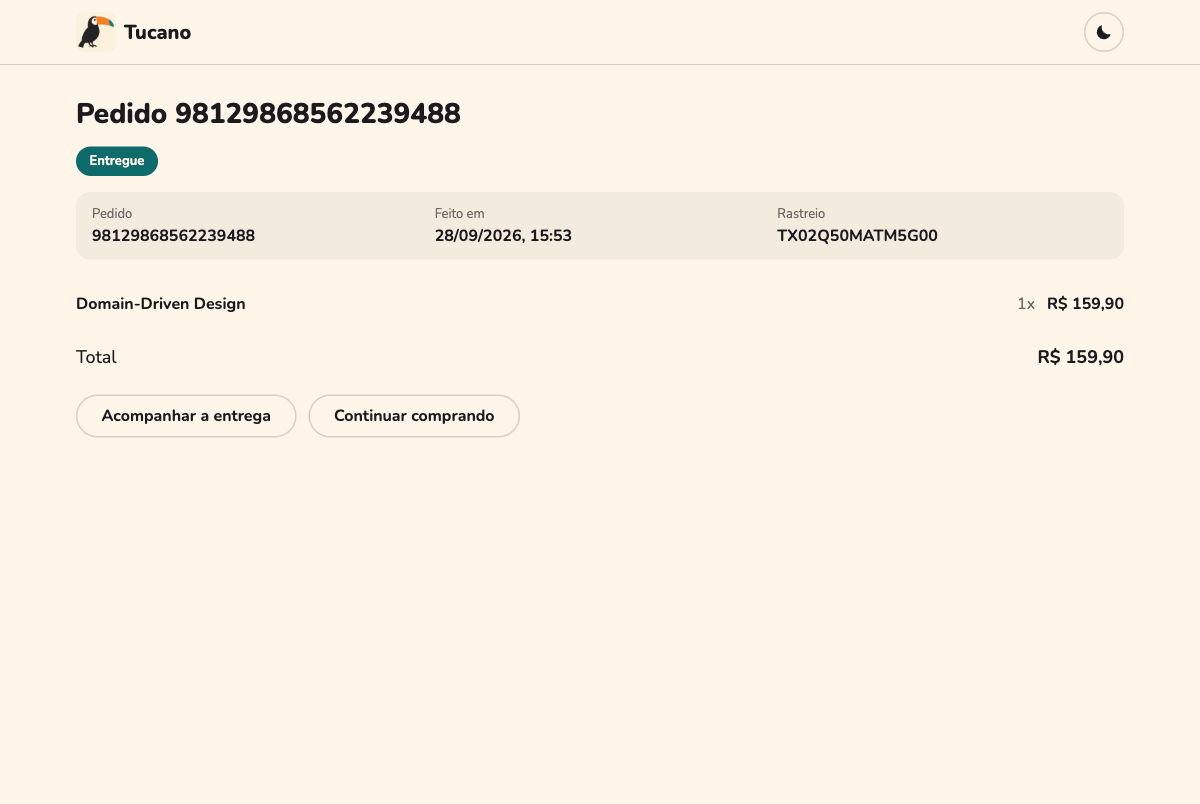
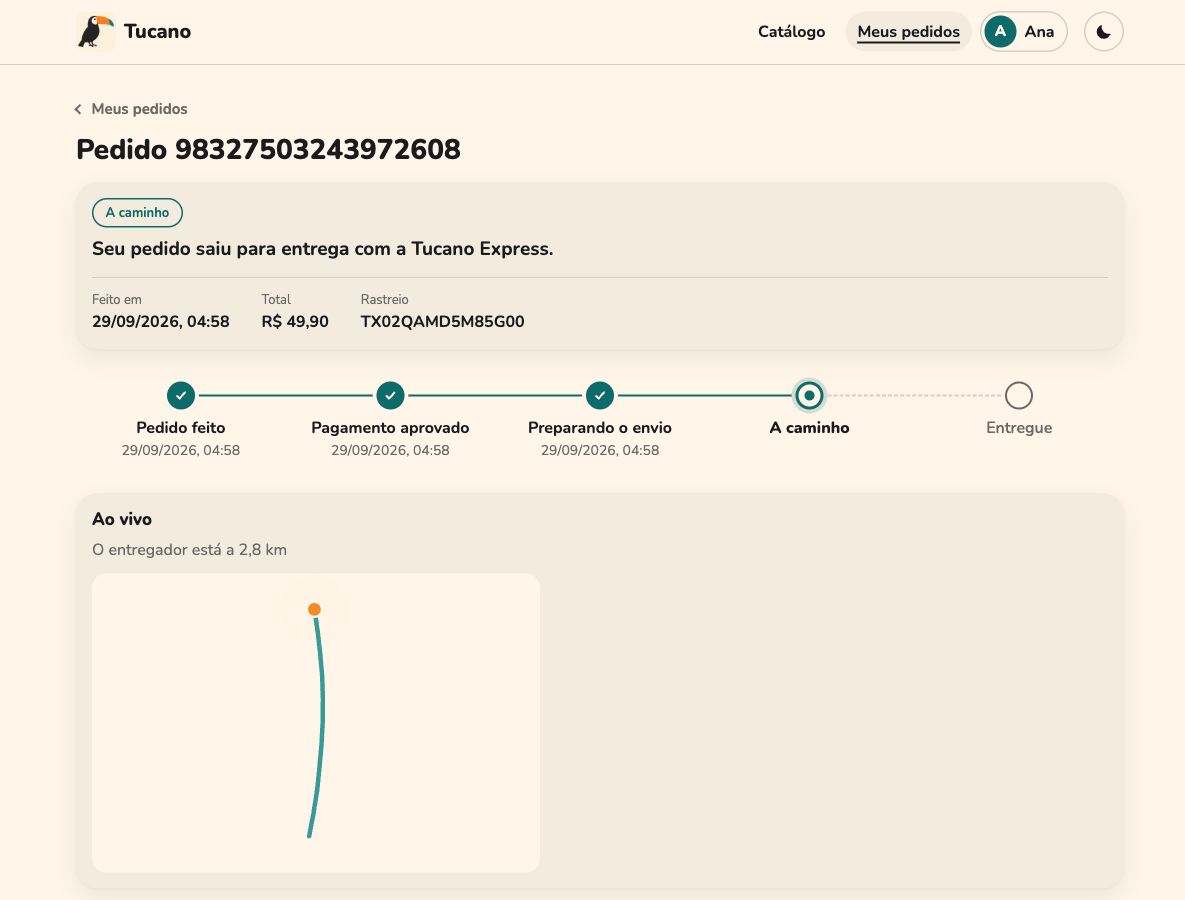
docs: profiles and my orders in the guide, the architecture and the readme

diff --git a/docs/architecture/failure-modes.md b/docs/architecture/failure-modes.md
@@ -34,9 +34,10 @@ Os números vêm da stack local, em 28/09/2026. Eles mudam de máquina para máq
 
 | Modo de falha | Efeito para o cliente | Detecção | Reação | Prova | O que sobra |
 |---|---|---|---|---|---|
-| Kafka fora | a remessa demora a nascer; a tela do pedido espera | o relay não consegue publicar | o evento espera na outbox, gravado na mesma transação do fato, e sai quando o Kafka volta; os consumidores retomam do último offset confirmado, e a inbox descarta o que a volta entregar duas vezes | experimento `kafka-out-and-back`: depois de 30 s fora, a remessa nasceu 8,6 s depois da volta do Kafka e a encomenda chegou a entregue em 18,8 s; [ADR 0008](../adr/0008-transactional-outbox.md) | até uns 10 s de espera depois da volta, que é o teto do backoff de reconexão do cliente do Kafka |
+| Kafka fora | a remessa demora a nascer; a tela do pedido espera; a lista "Meus pedidos" continua abrindo, mas para no tempo | o relay não consegue publicar | o evento espera na outbox, gravado na mesma transação do fato, e sai quando o Kafka volta; os consumidores retomam do último offset confirmado, e a inbox descarta o que a volta entregar duas vezes; o projetor da lista alcança sozinho | experimento `kafka-out-and-back`: depois de 30 s fora, a remessa nasceu 8,6 s depois da volta do Kafka e a encomenda chegou a entregue em 18,8 s; [ADR 0008](../adr/0008-transactional-outbox.md) | até uns 10 s de espera depois da volta, que é o teto do backoff de reconexão do cliente do Kafka |
 | evento entregue duas vezes | efeito em dobro | o id do evento, na inbox | a inbox descarta a repetição na mesma transação do efeito; `UNIQUE (order_id)` nas remessas | teste (pacote de mensageria e `SchemaConstraintsTest`) | nada |
 | mensagem ilegível, ou recusada pelo domínio | a partição travaria atrás dela | `PermanentFailure` | vai para `dlq.<consumer-group>` na hora, com o erro nos headers | teste (pacote de mensageria) | alguém precisa olhar a DLQ |
+| o projetor da lista parado (a flag `chaos.commerce.order-projector-paused`) | a tela do pedido mostra o pedido novo na hora, e "Meus pedidos" ainda não | o lag do grupo `commerce.order-projector` | nenhuma de propósito: é o laboratório de consistência do [ADR 0012](../adr/0012-acid-writes-base-reads.md); o projetor sai do grupo com tudo confirmado e volta dos offsets quando a flag desliga | medição: com a flag ligada, um pedido novo seguia fora da lista depois de 8 s; desligada, apareceu em uns 2 s; [feature flags](feature-flags.md#o-laboratório-de-consistência) | a lista atrasa o tempo que a flag ficar ligada |
 | worker parado no meio de um retry | um efeito pela metade | `SIGTERM` | o offset não é confirmado, e a mensagem volta depois do restart | laboratório do banco fora do ar | nada |
 
 ## Parceiros e logística
@@ -52,7 +53,8 @@ Os números vêm da stack local, em 28/09/2026. Eles mudam de máquina para máq
 |---|---|---|---|---|---|
 | o BFF perde o commerce | as telas de pedido | erro de rede no BFF | só as telas que dependem do commerce respondem `503` com `Retry-After`; o catálogo continua abrindo | experimento `commerce-cut-from-the-web`: `503` em 0,02 s | nada além da tela recusada |
 | o catálogo fica lento para o BFF | a tela do catálogo | o prazo do BFF, `UPSTREAM_TIMEOUT_MS` (5 s) | desiste em 5 s, com `503` e `Retry-After`; a tela do pedido segue | experimento `catalog-slow-for-the-web`: `503` em 5,06 s | a pessoa espera 5 s antes da recusa |
-| o BFF perde a logistics | a tela de rastreio | o mesmo mecanismo | `503` só nas telas da logistics | o mesmo mecanismo dos dois experimentos acima | sem experimento próprio |
+| o BFF perde a logistics | a tela de rastreio; a tela do pedido perde só a história da entrega | o mesmo mecanismo; na tela do pedido, um prazo curto só para a entrega, `ENRICHMENT_TIMEOUT_MS` (1,5 s) | o rastreio responde `503` com `Retry-After`; o pedido abre com o que o commerce sabe, avisa que a entrega não chegou agora e tenta de novo sozinho | teste (`order-story.test.ts` do BFF, com a logistics lenta e fora) | sem experimento próprio |
+| alguém tenta abrir ou listar o pedido de outra pessoa | nenhum: nada vaza | a assinatura da sessão no BFF; o cliente em cada leitura do commerce | um cookie adulterado vale como nenhum; o commerce responde o mesmo 404 de um pedido que não existe; o Kong encerra `/api/commerce/v1/customers` na borda ([ADR 0030](../adr/0030-each-customer-sees-only-its-orders.md)) | teste (`sessions.test.ts` e os journeys do BFF, `CustomerOrdersHttpTest` do commerce); no navegador, o Bruno recebeu "Não encontrado" no pedido da Ana | a rota sem cliente, `/api/commerce/v1/orders/{id}`, continua na borda para os laboratórios, com os dados pessoais mascarados |
 | o Kong cai | nada responde | o health check do compose | nenhuma: no compose local, o Kong é um ponto único de falha | nenhuma | em produção, duas réplicas atrás de um balanceador |
 
 ## A entrega ao vivo
@@ -69,7 +71,7 @@ Os números vêm da stack local, em 28/09/2026. Eles mudam de máquina para máq
 |---|---|---|---|---|---|
 | Redis fora | o catálogo perde o cache, e o pagamento perde o circuit breaker | falha de conexão | o catálogo lê direto do MySQL; o breaker deixa as chamadas passarem, porque um breaker quebrado não pode derrubar o serviço | medição: catálogo em 1,13 s e produto em 0,21 s, com o Redis cortado; laboratório do circuit breaker | sem o breaker, um PSP lento ao mesmo tempo voltaria a prender processos; a janela que evita alerta repetido não foi medida |
 | flagd fora | nenhum | a avaliação falha | cada avaliação tem um padrão seguro no código: caos desligado, estratégia `atomic` | [feature flags](feature-flags.md); [ADR 0015](../adr/0015-feature-flags-openfeature-flagd.md) | sem experimento como código ainda |
-| MongoDB fora | nenhum: a página pública segue a encomenda | o projetor da linha do tempo não alcança o MongoDB | a linha do tempo interna espera o MongoDB sem limite e alcança quando ele volta; a página pública lê os eventos num grupo de consumo próprio e nem percebe a queda ([ADR 0027](../adr/0027-one-consumer-group-per-read-model.md)) | experimento `tracking-without-the-timeline`: a página chegou a entregue em 14,6 s, com todos os passos; antes da correção, a jornada inteira foi para a DLQ e a página ficou sem nenhum passo | a linha do tempo interna atrasa enquanto durar a queda |
+| MongoDB fora | só a lista "Meus pedidos" recusa, com `503`; a página pública segue a encomenda, e o pedido, o checkout e o catálogo seguem | os projetores não alcançam o MongoDB; a leitura da lista falha | a lista responde `503` com `Retry-After: 5`; a linha do tempo interna e a lista de pedidos esperam o MongoDB sem limite e alcançam quando ele volta; a página pública lê os eventos num grupo de consumo próprio e nem percebe a queda ([ADR 0027](../adr/0027-one-consumer-group-per-read-model.md)) | experimento `tracking-without-the-timeline`: a página chegou a entregue em 14,6 s, com todos os passos; antes da correção, a jornada inteira foi para a DLQ e a página ficou sem nenhum passo; teste (`CustomerOrdersHttpTest`: a lista em `503` com `Retry-After`) | a linha do tempo interna e a lista atrasam enquanto durar a queda |
 | DynamoDB fora | o rastreio público não abre | a leitura falha sem resposta | a leitura tem uma tentativa só, de até 800 ms, e a página recusa na hora com `503` e `Retry-After: 5`; a escrita do projetor mantém as tentativas do SDK | experimento `tracking-without-its-copy`: `503` em 0,06 s, contra 5,05 s antes da correção | enquanto durar a queda, não há rastreio para mostrar |
 
 ## O que ainda não tem prova
@@ -78,5 +80,5 @@ Uma análise honesta termina pelo que falta. Estes são os próximos experimento
 
 1. **Redis fora com o PSP lento**: as duas falhas juntas tiram a proteção do breaker. O experimento diria se o timeout de 2 s sozinho segura o checkout.
 2. **A entrega ao vivo sem o tracking ou sem o Redis**: a web foi feita para seguir pelo polling, mas nenhum experimento confere isso numa encomenda de verdade. Pede uma sonda que abra o WebSocket, o que a imagem do Chaos Toolkit ainda não sabe fazer.
-3. **O BFF sem a logistics**: o mecanismo é o mesmo do commerce, mas sem experimento próprio ele pode quebrar sem ninguém ver.
+3. **O BFF sem a logistics**: o rastreio recusa como o commerce recusa, e a tela do pedido agora dispensa a história da entrega em 1,5 s. Os dois comportamentos têm teste, mas nenhum experimento os confere com a logistics cortada de verdade.
 4. **O Kong**: aceitar o ponto único no ambiente local é uma decisão, e ela merece um ADR quando o projeto ganhar um ambiente com mais de uma máquina.

diff --git a/docs/adr/0030-each-customer-sees-only-its-orders.md b/docs/adr/0030-each-customer-sees-only-its-orders.md
@@ -1,0 +1,41 @@
+# 0030. Cada cliente só vê os próprios pedidos
+
+- Status: aceito
+- Data: 2026-09-29
+
+## Contexto
+
+A loja não tem login. O checkout dava ao navegador um id de cliente convidado no cookie `tucano_guest`, sem assinatura, e um pedido só era encontrado por quem guardava a URL dele. Não havia lista de pedidos: o [UC-ORD-05](../use-cases/UC-ORD-05-view-orders.md) prometia que ela leria o read model `order_views`, e nada alimentava esse read model.
+
+Duas coisas tornavam o isolamento entre clientes só uma aparência. O id do convidado vinha do navegador, então bastava trocar o cookie para virar outra pessoa. E o Kong expõe o commerce inteiro em `/api/commerce`, então uma rota de pedidos por cliente ficaria aberta na borda para quem soubesse um id.
+
+Quero o isolamento de verdade antes de dividir a plataforma em lojas, que é o passo seguinte.
+
+## Decisão
+
+- **Perfis, sem senha.** O navegador guarda até 8 perfis de cliente, e um deles é o ativo. É um laboratório: trocar de perfil faz o papel de entrar com outra conta.
+- **Uma sessão assinada.** O cookie `tucano_session` leva os perfis e o ativo, assinado pelo BFF com HMAC-SHA256 sob o `SESSION_SECRET`. Um cookie adulterado vale como nenhum. O perfil guarda só o primeiro nome, tirado do nome digitado no primeiro pedido.
+- **O BFF é a fronteira da identidade.** Em todo pedido novo e em toda leitura, ele manda ao commerce o id do perfil ativo como id do cliente. O navegador nunca escolhe esse id.
+- **O commerce cobra o isolamento.** As leituras do cliente passam por `/v1/customers/{id}/orders`. Um pedido de outro cliente responde o mesmo 404 de um pedido que não existe, sem dica nenhuma.
+- **A borda não expõe as rotas por cliente.** O Kong encerra `/api/commerce/v1/customers` com um 404; só o BFF, na rede interna, chega nelas.
+- **A lista é eventual, o pedido é forte.** "Meus pedidos" lê o `order_views` no MongoDB, alimentado pelo `commerce.orders.v2` no consumer group que já estava previsto para ele (`commerce.order-projector`), como o [ADR 0012](0012-acid-writes-base-reads.md) decidiu. O pedido continua lendo o PostgreSQL, agora com o histórico da máquina de estados. A lista avisa que um pedido novo leva alguns segundos para aparecer, e a flag `chaos.commerce.order-projector-paused` pausa o projetor para esse atraso ficar visível.
+- **O `order.placed` passa a levar o nome de cada item**, porque a lista mostra o que foi comprado e o evento só tinha o SKU. É uma mudança aditiva, na mesma versão ([ADR 0010](0010-cloudevents-contracts.md)).
+- **O pedido conta a própria história.** O BFF junta o histórico do pedido às etapas da remessa na logística, com um prazo curto só para essa busca. Sem a logística, o pedido abre com o que o commerce sabe e um aviso, em vez de esperar o prazo inteiro do BFF.
+- **O `tucano_guest` não é adotado.** Ele nunca foi assinado; aproveitar o id dele seria confiar num id que o navegador escolheu. O BFF expira o cookie antigo quando o vê.
+
+## Consequências
+
+- Os pedidos feitos antes desta versão continuam no commerce, mas nenhum perfil os lista.
+- O cookie cabe em poucos perfis, por isso o limite de 8.
+- Trocar o `SESSION_SECRET` desfaz todas as sessões. A rotação com dois segredos fica para quando fizer falta.
+- A lista pode ficar alguns segundos atrás do pedido, e com o Kafka fora ela para no tempo até ele voltar. Com o MongoDB fora, só a lista cai com 503; o pedido, o checkout e o catálogo seguem.
+- A rota `GET /v1/orders/{id}`, sem cliente, continua na borda para os laboratórios, com os dados pessoais mascarados como antes. Num sistema de verdade, a borda não exporia o commerce.
+- Um login de verdade trocaria só a origem do id: a sessão guardaria o sujeito que o provedor de identidade devolve, e o resto (o commerce por cliente e a borda fechada) continua igual.
+
+## Alternativas consideradas
+
+- **Login de verdade, com OIDC**: mais um serviço pesado para uma loja sem usuários reais. A troca de perfil mostra o isolamento sem senha nenhuma.
+- **O cookie sem assinatura de hoje**: qualquer pessoa trocaria o id no navegador e leria os pedidos de outra.
+- **Sessão guardada no Redis**: o BFF passaria a depender de um banco, e a queda dele derrubaria a identidade de todo mundo. O cookie assinado não guarda nada no servidor.
+- **Um token do BFF para o commerce, com o cliente assinado dentro**: protege melhor quando vários clientes chamam o commerce. Aqui só o BFF chama, na rede interna, e a borda fecha as rotas.
+- **Ler a lista no PostgreSQL**: consistente e mais simples, mas contraria o ADR 0012 e apaga o laboratório de consistência que ele prometia, com a mesma informação lida forte de um lado e eventual do outro.

diff --git a/docs/guia/08-como-apresentar.md b/docs/guia/08-como-apresentar.md
@@ -13,11 +13,12 @@ make up                                   # a stack sobe e espera os health chec
 open http://localhost:8000                # a loja
 ```
 
-1. Compro um livro e pago com o cartão que aprova. A tela do pedido se atualiza sozinha: confirmando, pagamento aprovado, a caminho, entregue. O código de rastreio aparece quando a transportadora coleta.
+1. Compro um livro e pago com o cartão que aprova. A tela do pedido se atualiza sozinha e vai contando a história: as cinco etapas, do pedido feito à entrega, e o histórico que junta o que o commerce e a logística sabem. Na saída para entrega, o entregador aparece ao vivo na própria tela.
 2. Compro de novo e pago com o cartão recusado. A tela termina em "Cancelado", dizendo por quê, e o estoque volta para a prateleira.
-3. Rodo `make experiment e=commerce-cut-from-the-web`. O experimento diz a hipótese antes de quebrar qualquer coisa, corta o commerce da web, confere a tela do pedido (503 dizendo quando tentar de novo) e o catálogo (continua abrindo), e desfaz tudo no final.
-4. Conto a história do `commerce-database-out`: eu ia escrever que a loja recusa com honestidade quando o banco cai, medi antes, e ela respondia um 500 mudo. O experimento pegou, a correção virou o [ADR 0026](../adr/0026-a-database-outage-is-unavailability.md).
-5. Mostro os logs: o `correlation_id` que o Kong carimbou no request aparece no BFF, no commerce e, pelo evento, no consumidor da logistics.
+3. Troco de perfil no topo e crio o Bruno. "Meus pedidos" dele está vazio, e a URL de um pedido da Ana responde "Não encontrado". Volto para a Ana, e os pedidos dela estão lá.
+4. Rodo `make experiment e=commerce-cut-from-the-web`. O experimento diz a hipótese antes de quebrar qualquer coisa, corta o commerce da web, confere a tela do pedido (503 dizendo quando tentar de novo) e o catálogo (continua abrindo), e desfaz tudo no final.
+5. Conto a história do `commerce-database-out`: eu ia escrever que a loja recusa com honestidade quando o banco cai, medi antes, e ela respondia um 500 mudo. O experimento pegou, a correção virou o [ADR 0026](../adr/0026-a-database-outage-is-unavailability.md).
+6. Mostro os logs: o `correlation_id` que o Kong carimbou no request aparece no BFF, no commerce e, pelo evento, no consumidor da logistics.
 
 ## Numa conversa técnica longa
 
@@ -46,11 +47,12 @@ Eu escolho o fio pela pessoa do outro lado:
 | E se o webhook do PSP nunca chegar? | a conciliação pergunta ao PSP e aplica a resposta pelo mesmo caminho do webhook | [conciliação](../labs/payment-reconciliation.md) |
 | Por que não um microsserviço por entidade? | fronteira por subdomínio: o que muda junto fica junto | [ADR 0002](../adr/0002-services-per-subdomain.md) |
 | Por que PHP e Node juntos? | cada linguagem onde o trabalho dela faz sentido, com as mesmas convenções nas duas | [stacks](02-stacks.md) |
+| Como um cliente não vê o pedido do outro? | a sessão é assinada pelo BFF, o commerce filtra cada leitura pelo cliente e responde o mesmo 404 para um pedido alheio, e o Kong fecha as rotas por cliente na borda | [ADR 0030](../adr/0030-each-customer-sees-only-its-orders.md) |
 | Como você muda um contrato de evento sem quebrar ninguém? | mudança compatível no mesmo tópico, incompatível num tópico novo (`v2`) | [ADR 0010](../adr/0010-cloudevents-contracts.md) |
 | Como você impede a arquitetura de apodrecer? | cada regra importante é um teste que quebra o build | [abstrações](05-abstracoes.md) |
 | Por que hipermídia e não GraphQL? | o fluxo fica no servidor e a web não precisa saber a ordem das telas | [ADR 0023](../adr/0023-server-driven-ui-with-siren.md) |
 | Como você lida com a LGPD? | dado pessoal num proxy que se imprime mascarado, e minimização no que circula | [ADR 0024](../adr/0024-sensitive-data-behind-a-proxy.md) |
-| O que você faria diferente num sistema de verdade? | login e sessão, OpenTelemetry no lugar do correlation id caseiro, CDC no lugar do relay, criptografia no armazenamento de dado pessoal, bulkheads no BFF | as possibilidades do capítulo [conceitos](06-conceitos.md) |
+| O que você faria diferente num sistema de verdade? | um provedor de identidade no lugar dos perfis sem senha, OpenTelemetry no lugar do correlation id caseiro, CDC no lugar do relay, criptografia no armazenamento de dado pessoal, bulkheads no BFF | as possibilidades do capítulo [conceitos](06-conceitos.md) |
 
 ## O que eu digito antes de falar
 

diff --git a/docs/architecture/README.md b/docs/architecture/README.md
@@ -99,10 +99,10 @@ C4Container
 | Container | Tecnologia | Motivo | Status |
 |---|---|---|---|
 | `kong` | Kong Gateway 3.9 OSS, DB-less | borda única: rotas, rate limit, correlation id, cache e circuit breaking por health check | rodando, rotas `/bff`, `/api/catalog`, `/api/commerce`, `/api/logistics` e `/api/tracking` |
-| `web` | React 19 + Vite | loja, console de operações, laboratórios e painel de caos | a loja rodando: um intérprete das telas Siren do BFF, com vitrine, checkout, pedido que se atualiza sozinho e rastreio; o console e os painéis vêm depois |
-| `bff` | Node 24 + Fastify | monta as telas da web em Siren (HATEOAS) sobre catalog, commerce e logistics, para a web só desenhar e seguir links | vitrine, checkout, pedido que se atualiza sozinho e rastreio; cada serviço pelo seu proxy no Toxiproxy, com timeout e 503 com `Retry-After` quando um deles cai |
+| `web` | React 19 + Vite | loja, console de operações, laboratórios e painel de caos | a loja rodando: um intérprete das telas Siren do BFF, com vitrine, checkout, perfis de cliente, "Meus pedidos", o pedido que conta a própria história (etapas, histórico e o entregador ao vivo) e rastreio; o console e os painéis vêm depois |
+| `bff` | Node 24 + Fastify | monta as telas da web em Siren (HATEOAS) sobre catalog, commerce e logistics, para a web só desenhar e seguir links | vitrine, checkout, perfis numa sessão assinada, "Meus pedidos", o pedido com etapas e histórico (commerce e logistics juntos) e rastreio; cada serviço pelo seu proxy no Toxiproxy, com timeout e 503 com `Retry-After` quando um deles cai, e a história da entrega com um prazo curto próprio, que a tela do pedido dispensa quando a logistics não responde |
 | `catalog` | Lumen 11, PHP 8.3 | subdomínio de suporte, leitura intensa e cache-aside, no papel de serviço legado | produtos com cache-aside e snapshots no tópico compactado |
-| `commerce` | Laravel 13, PHP 8.4 | núcleo transacional: pedidos, estoque, pagamentos e notificações | pedidos, reserva de estoque, pagamento com circuit breaker, webhook e conciliação, outbox |
+| `commerce` | Laravel 13, PHP 8.4 | núcleo transacional: pedidos, estoque, pagamentos e notificações | pedidos, reserva de estoque, pagamento com circuit breaker, webhook e conciliação, outbox, leituras por cliente com o histórico de cada pedido, e a lista "Meus pedidos" no MongoDB, pelo projetor `commerce-order-projector` |
 | `logistics` | Laravel 13, PHP 8.4 | núcleo logístico: remessas, máquina de estados, transportadoras, etiquetas | remessa criada a partir do pedido pago e cancelada com o pedido, escolha de transportadora, etiqueta em ZPL no S3 pela fila SQS, coleta e jornada até a entrega ou a devolução pelos webhooks das transportadoras, conciliação com o histórico delas, alerta das jornadas paradas no log e por e-mail, página pública de rastreio no DynamoDB e linha do tempo no MongoDB, cópia do catálogo, outbox |
 | `tracking` | Swoole 6, PHP 8.4 | milhares de conexões de GPS e WebSocket em um processo de longa duração | entrega ao vivo rodando: posições assinadas do aparelho, WebSocket para quem acompanha o código, fan-out por Redis pub/sub ([ADR 0028](../adr/0028-live-delivery-by-tracking-code.md)); falta o despacho (UC-TRK-02) |
 | `partners-sim` | Node 24 + Fastify | simula o mundo externo: PSP, transportadoras e app da frota, com controles de caos | PayFake (cobranças, estornos, webhooks assinados) e CarrierFake (coleta e jornada da encomenda até a entrega ou a devolução), os dois com caos em tempo real |

diff --git a/docs/guia/01-a-tucano.md b/docs/guia/01-a-tucano.md
@@ -39,6 +39,7 @@ Cada contexto tem a sua linguagem, e as palavras mudam de sentido na fronteira: 
 5. A transportadora coleta, passa por hubs, sai para entrega e entrega, ou tenta três vezes e devolve. Cada passo chega por webhook e vira um evento de `logistics.shipments.v2` ([UC-SHP-04](../use-cases/UC-SHP-04-record-pickup.md) a [UC-SHP-08](../use-cases/UC-SHP-08-return-to-sender.md)).
 6. O pedido acompanha a remessa um passo atrás e aprende o código de rastreio na coleta ([UC-ORD-04](../use-cases/UC-ORD-04-follow-shipment.md)). Numa devolução, o pagamento vai para estorno na mesma transação.
 7. A web mostra tudo isso sem recarregar: a tela do pedido se atualiza sozinha enquanto algo está para acontecer, e a página de rastreio lê uma cópia no DynamoDB, por chave ([UC-SHP-10](../use-cases/UC-SHP-10-track-by-code.md)). Quando a encomenda sai com a frota própria, a página mostra o entregador chegando, ao vivo: o aparelho dele informa a posição a cada segundo, e o tracking a empurra por WebSocket para quem acompanha aquele código ([UC-TRK-03](../use-cases/UC-TRK-03-follow-delivery-live.md)).
+8. Depois, a pessoa acha o pedido em "Meus pedidos", onde cada perfil de cliente vê só os seus ([UC-ORD-05](../use-cases/UC-ORD-05-view-orders.md)). A lista lê uma cópia no MongoDB, que um projetor mantém a partir dos eventos do pedido ([UC-ORD-08](../use-cases/UC-ORD-08-project-order-views.md)), e a tela de cada pedido conta a história inteira: as etapas, do pedido feito à entrega, e um histórico que junta o que o commerce e a logística sabem.
 
 Quando alguma peça falha no meio, os casos de uso "do relógio" põem ordem: a reserva vence e devolve o estoque ([UC-ORD-03](../use-cases/UC-ORD-03-expire-unpaid-orders.md)), a conciliação pergunta ao PSP o que ficou sem resposta ([UC-PAY-03](../use-cases/UC-PAY-03-reconcile-payments.md)), a conciliação da jornada pergunta à transportadora o que se perdeu ([UC-SHP-12](../use-cases/UC-SHP-12-reconcile-journeys.md)), e a vigia avisa uma pessoa quando nenhuma tentativa resolve ([UC-SHP-13](../use-cases/UC-SHP-13-watch-stalled-journeys.md)).
 
@@ -50,7 +51,7 @@ Do documento ao código o caminho é curto e verificado. Cada caso de uso vira u
 
 ## O que ficou de fora, de propósito
 
-- **Login.** O checkout é de convidado: o BFF dá ao navegador um id num cookie. Autenticação é um assunto inteiro, e não é o que este laboratório quer ensinar agora.
+- **Senha.** O navegador guarda perfis de cliente numa sessão que o BFF assina, e trocar de perfil faz o papel de entrar com outra conta. O isolamento é de verdade: um perfil não abre nem lista o pedido de outro ([ADR 0030](../adr/0030-each-customer-sees-only-its-orders.md)). Autenticação, com provedor de identidade e recuperação de conta, é um assunto inteiro, e não é o que este laboratório quer ensinar agora.
 - **Carrinho com vários produtos.** O commerce aceita até 20 itens num pedido; a web compra um produto por vez. O limite é da tela, não do domínio.
 - **Dinheiro de verdade.** O PSP é simulado, e os cartões são tokens de teste. Nenhum número de cartão entra no sistema ([ADR 0024](../adr/0024-sensitive-data-behind-a-proxy.md)).
 

diff --git a/CHANGELOG.md b/CHANGELOG.md
@@ -4,6 +4,26 @@ Todas as mudanças relevantes ficam registradas aqui. O formato segue o [Keep a 
 
 ## [Unreleased]
 
+### Added
+
+- Perfis de cliente e "Meus pedidos" (ADR 0030). O navegador guarda até 8 perfis numa sessão que o BFF assina com HMAC (`tucano_session`), e trocar de perfil faz o papel de entrar com outra conta, sem senha. Cada perfil só vê os próprios pedidos: o BFF lê pelas rotas por cliente do commerce (`/v1/customers/{id}/orders` e `/v1/customers/{id}/orders/{orderId}`), um pedido de outro cliente responde o mesmo 404 de um que não existe, e o Kong encerra essas rotas na borda. Telas novas: "Quem está comprando?" (`profiles`) e "Meus pedidos" (`orders`), e toda tela passa a trazer a navegação (`rel-navigation`), com o catálogo, os pedidos e o perfil de quem está comprando.
+- A lista "Meus pedidos" lê o read model `order_views` no MongoDB, como o ADR 0012 previa: o projetor `commerce-order-projector` (grupo `commerce.order-projector`, UC-ORD-08) o mantém a partir de `commerce.orders.v2`, pela versão que cada status tem na máquina de estados, então um evento repetido, atrasado ou relido nunca volta a lista para trás. Com o MongoDB fora, só a lista recusa, com `503`; o projetor espera sem limite.
+- O laboratório de consistência: a flag `chaos.commerce.order-projector-paused` tira o projetor do grupo. O pedido novo abre na hora, lido no PostgreSQL, e só aparece em "Meus pedidos" depois que a flag desliga, em uns 2 s.
+- A tela do pedido conta a história dele: uma frase sobre onde ele está, as cinco etapas (pedido feito, pagamento, preparo, a caminho, entregue, ou onde parou), e um histórico que junta as transições do pedido, que o commerce agora devolve em `history`, às etapas da remessa na logistics. O entregador ao vivo (ADR 0028) aparece também na tela do pedido. A busca na logistics tem um prazo curto só dela (`ENRICHMENT_TIMEOUT_MS`, 1,5 s): sem a logistics, o pedido abre com o que o commerce sabe e um aviso.
+- Variáveis novas no BFF: `SESSION_SECRET`, com um segredo de laboratório no compose, e `ENRICHMENT_TIMEOUT_MS`.
+
+### Changed
+
+- O `order.placed` leva o `name` de cada item, uma mudança aditiva no mesmo tópico (ADR 0010); a lista mostra o SKU quando lê um evento antigo, sem o nome.
+- Pagar confere antes, pela leitura por cliente, que o pedido é de quem está comprando.
+- O consumidor Kafka do pacote `packages/php/messaging` pode pausar: enquanto uma pergunta diz que sim, ele sai do grupo entre duas mensagens, com tudo confirmado, e volta dos offsets confirmados. Os workers que não pedem pausa seguem iguais.
+- O cabeçalho da web desenha a navegação que vem em cada tela e a mantém numa página de erro, para um 404 que diz "troque de perfil" deixar o caminho à vista.
+- Os probes do caos guardam, com cada pedido que acompanham, a sessão que o comprou, porque só ela o abre.
+
+### Removed
+
+- O cookie `tucano_guest`. O BFF o expira quando o vê e não aproveita o id dele, que nunca foi assinado. Os pedidos feitos com ele continuam no commerce, sem perfil que os liste.
+
 ## [0.10.0] - 2026-09-28
 
 ### Added

diff --git a/docs/architecture/events.md b/docs/architecture/events.md
@@ -80,7 +80,7 @@ O catálogo publica o estado do produto, não a mudança (event-carried state tr
 | `logistics.label-requests` | `logistics.shipments.v2` | põe na fila `label-jobs` (SQS) o pedido de etiqueta de cada remessa criada |
 | `logistics.pickup-bookings` | `logistics.shipments.v2` | agenda a coleta na transportadora de cada remessa pronta |
 | `commerce.shipment-sync` | `logistics.shipments.v2` | avança o pedido (enviado, entregue, devolvido) e dispara estornos |
-| `commerce.order-projector` | `commerce.orders.v2` | mantém o read model de pedidos no MongoDB |
+| `commerce.order-projector` | `commerce.orders.v2` | mantém no MongoDB a lista de pedidos de cada cliente, "Meus pedidos" ([UC-ORD-08](../use-cases/UC-ORD-08-project-order-views.md)). Com o MongoDB fora de alcance, espera sem limite; com a flag `chaos.commerce.order-projector-paused` ligada, sai do grupo e volta dos offsets confirmados quando ela desliga ([ADR 0030](../adr/0030-each-customer-sees-only-its-orders.md)) |
 | `logistics.timeline-projector` | `logistics.shipments.v2` | mantém a linha do tempo interna no MongoDB |
 | `logistics.tracking-pages` | `logistics.shipments.v2` | mantém a página pública de rastreio no DynamoDB, num grupo separado da linha do tempo para uma queda de um banco não parar o outro ([ADR 0027](../adr/0027-one-consumer-group-per-read-model.md)) |
 | `commerce.notification-router` | `commerce.orders.v2`, `logistics.shipments.v2` | decide o que vira notificação e publica no SNS |
@@ -105,7 +105,7 @@ flowchart LR
 
 ## Evolução de schema
 
-- Dentro de uma versão, só mudanças aditivas (campos novos e opcionais). Consumidores são tolerant readers e ignoram o que não conhecem.
+- Dentro de uma versão, só mudanças aditivas (campos novos e opcionais). Consumidores são tolerant readers e ignoram o que não conhecem. O `name` de cada item do `order.placed` entrou assim: o schema ganhou o campo como opcional, o produtor passou a mandá-lo sempre, e o projetor da lista mostra o SKU quando lê um evento antigo, sem ele.
 - Mudança que quebra contrato vira tópico novo ([ADR 0010](../adr/0010-cloudevents-contracts.md)). Os consumidores aprendem a ler a versão nova primeiro, os produtores trocam de tópico depois, e a leitura da versão antiga sai quando o lag dela zera em todos os consumer groups.
 
 ### O endereço, do v1 para o v2

diff --git a/docs/architecture/data-model.md b/docs/architecture/data-model.md
@@ -199,7 +199,7 @@ O lado de leitura do CQRS mora no MongoDB, em um banco por serviço (`commerce_r
 
 | Coleção | Chave | Índices | Alimentada por |
 |---|---|---|---|
-| `commerce_read.order_views` | `_id` = id do pedido (UUID binário) | `customerId + placedAt` (histórico do cliente), `orderNumber` único | `commerce.orders.v2` e `logistics.shipments.v2` |
+| `commerce_read.order_views` | `_id` = id do pedido (UUID binário) | `customerId + placedAt` (histórico do cliente), `orderNumber` único | `commerce.orders.v2`, no grupo `commerce.order-projector` ([UC-ORD-08](../use-cases/UC-ORD-08-project-order-views.md)) |
 | `logistics_read.shipment_timelines` | `_id` = id da remessa (UUID binário) | `trackingCode` único, `orderId` único | `logistics.shipments.v2` |
 
 ```json
@@ -208,16 +208,17 @@ O lado de leitura do CQRS mora no MongoDB, em um banco por serviço (`commerce_r
   "orderNumber": "NumberLong(97663530295234560)",
   "customerId": "UUID('01926f38-...')",
   "status": "shipped",
+  "cancellationReason": null,
   "total": { "amount": "NumberLong(18990)", "currency": "BRL" },
   "lines": [{ "sku": "BOOK-DDD-001", "name": "Domain-Driven Design", "quantity": 1, "unitPrice": "NumberLong(18990)" }],
-  "shipment": { "trackingCode": "TX02PQRFBTW5G03", "status": "in_transit", "carrier": "ligeirinho" },
+  "shipment": null,
   "placedAt": "ISODate('2026-09-27T12:00:00Z')",
   "updatedAt": "ISODate('2026-09-27T15:42:10Z')",
-  "version": "NumberLong(4)"
+  "version": "NumberLong(3)"
 }
 ```
 
-O campo `version` guarda a última mudança aplicada. A projeção só escreve se a mudança for mais nova (`VersionedDocuments`), e assim evento repetido ou fora de ordem não volta o documento para trás.
+O campo `version` guarda a versão do pedido que o documento mostra, e cada evento a conhece sozinho, porque cada status tem uma entrada só na máquina de estados: `order.placed` é a 1, `paid` a 2, `shipped` a 3, `delivered` e `returned` a 4, e `cancelled` vem logo depois do status em que o pedido estava. A projeção só escreve uma versão mais nova, e assim um evento repetido, atrasado ou relido não volta o documento para trás. O `shipment` fica `null` por enquanto: a lista mostra o status do pedido, e a tela do pedido conta a entrega.
 
 ## Redis
 

diff --git a/docs/guia/07-padroes.md b/docs/guia/07-padroes.md
@@ -11,7 +11,7 @@ Seguir um padrão é emprestar anos de discussão de gente que já errou antes. 
 | [RFC 7240](https://www.rfc-editor.org/rfc/rfc7240), `Prefer` | a estratégia de reserva do laboratório de overselling, confirmada com `Preference-Applied` | uma preferência é uma dica que o servidor pode ignorar, que é exatamente o que o laboratório faz em produção |
 | [RFC 6648](https://www.rfc-editor.org/rfc/rfc6648), o fim do prefixo `X-` | header novo não leva `X-`; o `X-Correlation-Id` ficou de propósito, por ser o nome que gateways e APMs já conhecem | o sucessor padrão é o `traceparent` do W3C Trace Context, que entra com o OpenTelemetry |
 | [RFC 8288](https://www.rfc-editor.org/rfc/rfc8288), web linking | as relações dos links das telas: `self`, `up`, `collection`, `item`, `next` e `prev` registradas, e as do domínio como URI | relação de extensão precisa ser URI, e cada URI aqui cai na definição dela no contrato |
-| [RFC 6265](https://www.rfc-editor.org/rfc/rfc6265), cookies | o `tucano_guest` do checkout, com `HttpOnly`, `SameSite=Lax`, `Path=/bff` e `Secure` em produção | o id do cliente convidado viaja sem script nenhum encostar nele |
+| [RFC 6265](https://www.rfc-editor.org/rfc/rfc6265), cookies | o `tucano_session` com os perfis de cliente, assinado com HMAC, com `HttpOnly`, `SameSite=Lax`, `Path=/bff` e `Secure` em produção | ninguém vira outro cliente editando o cookie, e nenhum script encosta nele ([ADR 0030](../adr/0030-each-customer-sees-only-its-orders.md)) |
 | [Idempotency-Key](https://datatracker.ietf.org/doc/draft-ietf-httpapi-idempotency-key-header/), draft da IETF | todo `POST` que cria alguma coisa; a mesma chave com outro corpo é `422` | retry seguro de ponta a ponta, do clique duplo ao timeout |
 | [Siren](https://github.com/kevinswiber/siren), hipermídia | todas as telas do BFF, com `application/vnd.siren+json` | o servidor manda o próximo passo, e a web só segue ([ADR 0023](../adr/0023-server-driven-ui-with-siren.md)) |
 | [OpenAPI 3.1](https://spec.openapis.org/oas/v3.1.0) | as APIs dos parceiros, em `contracts/http` | o contrato do PSP e das transportadoras é conferido por lint no CI |

diff --git a/docs/architecture/context-map.md b/docs/architecture/context-map.md
@@ -61,6 +61,7 @@ No diagrama, cada seta vai do upstream para o downstream.
 | Transportadoras para Logistics | **Anticorruption Layer** | cada transportadora tem seu próprio formato; o adapter converte tudo em transições da máquina de estados da remessa |
 | Tracking para App da frota | **Open Host Service** | o protocolo WebSocket da frota é definido e documentado pelo Tracking; o app se adapta a ele |
 | Serviços para o BFF | **Anticorruption Layer** | o BFF não tem domínio próprio, mas não adota o modelo de ninguém de olhos fechados: o `src/upstream/` lê o JSON de cada serviço campo a campo e o traduz para o vocabulário das telas. Um serviço que muda o contrato sem avisar quebra ali, com o nome da chamada e do campo, e não no meio de uma tela |
+| BFF para Commerce, nas rotas do cliente | **Customer/Supplier**, com o BFF como a fronteira da identidade | o BFF sabe quem está comprando, pela sessão assinada, e o commerce confia no id de cliente que ele manda, só pela rede interna: o Kong fecha `/api/commerce/v1/customers` na borda ([ADR 0030](../adr/0030-each-customer-sees-only-its-orders.md)). O commerce cobra o isolamento no próprio dado, e um pedido de outro cliente responde como um que não existe |
 
 ## Shared Kernel
 

diff --git a/docs/guia/00-como-eu-penso.md b/docs/guia/00-como-eu-penso.md
@@ -113,7 +113,7 @@ Cada decisão deste projeto é para este momento: um laboratório numa máquina 
 |---|---|---|
 | o relay lê a outbox de tempos em tempos | quando a latência do relay ou a carga no banco pesarem | captura de mudanças (CDC) lendo o log do PostgreSQL, sem mexer em nenhum produtor |
 | o `X-Correlation-Id` carimbado pelo Kong | quando eu precisar do tempo de cada trecho, e não só do fio da meada | OpenTelemetry, com traces que atravessam o Kafka |
-| cliente convidado num cookie | quando existir conta de verdade | login e sessão, e o carrinho da pessoa entre aparelhos |
+| perfis sem senha numa sessão assinada pelo BFF | quando existir conta de verdade | um provedor de identidade: a sessão guarda quem entrou, e o carrinho da pessoa segue entre aparelhos |
 | um PostgreSQL com um banco por serviço | quando um serviço crescer mais que os outros | cada banco no seu servidor, réplicas de leitura e, no limite, pedidos particionados por chave |
 | o catálogo em Lumen, no papel de legado | quando o legado virar gargalo | estrangular aos poucos, como no *Strangler Fig* de Fowler: rotas novas num serviço novo, atrás do mesmo Kong |
 
